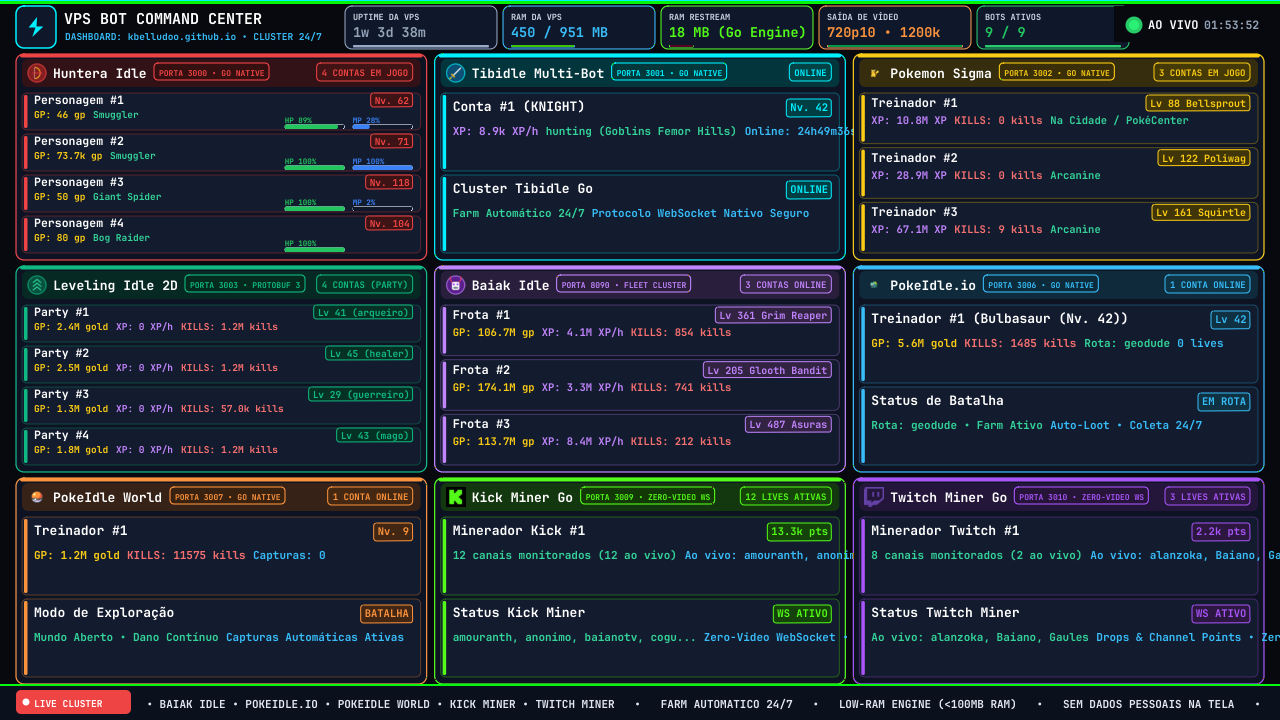
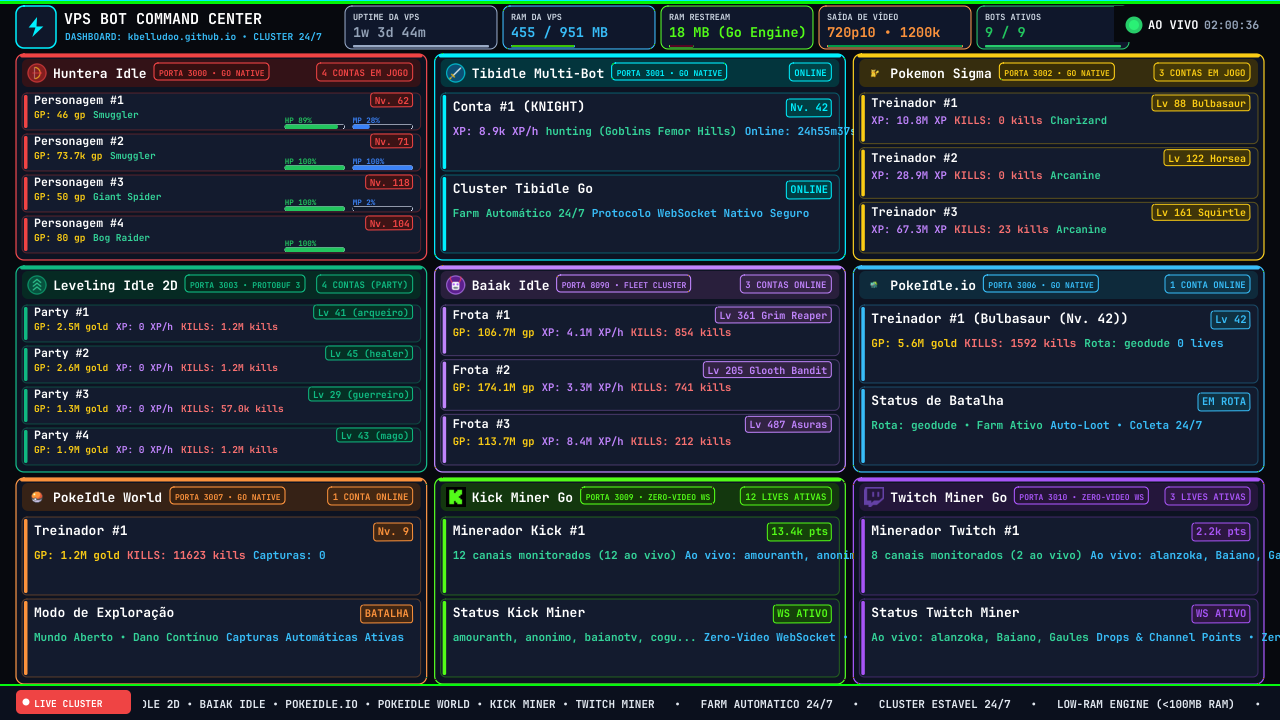
fix(hud): resolve font race condition causing restarts, remove personal data disclaimer, and tune ffmpeg zerolatency

diff --git a/cmd/hud/main.go b/cmd/hud/main.go
@@ -18,6 +18,7 @@ import (
 	"runtime"
 	"strings"
 	"sync"
+	"sync/atomic"
 	"time"
 
 	"github.com/fogleman/gg"
@@ -1334,7 +1335,7 @@ func drawDynamicOverlays(dc *gg.Context, pulse float64) {
 	dc.Fill()
 
 	// Scrolling Marquee
-	msg := "9 BOTS NATIVOS EM GO (ZERO NODE.JS)   •   HUNTERA • TIBIDLE • POKEMON SIGMA • LEVELING IDLE 2D • BAIAK IDLE • POKEIDLE.IO • POKEIDLE WORLD • KICK MINER • TWITCH MINER   •   FARM AUTOMATICO 24/7   •   LOW-RAM ENGINE (<100MB RAM)   •   SEM DADOS PESSOAIS NA TELA"
+	msg := "9 BOTS NATIVOS EM GO (ZERO NODE.JS)   •   HUNTERA • TIBIDLE • POKEMON SIGMA • LEVELING IDLE 2D • BAIAK IDLE • POKEIDLE.IO • POKEIDLE WORLD • KICK MINER • TWITCH MINER   •   FARM AUTOMATICO 24/7   •   CLUSTER ESTAVEL 24/7   •   LOW-RAM ENGINE (<100MB RAM)"
 	msg = msg + "   •   "
 	dc.Push()
 	dc.DrawRectangle(marqueeStartX, tickerY, W-marqueeStartX-10, tickerH)
@@ -1390,13 +1391,14 @@ func streamFrames(w io.Writer, fps int, telemURL, localSample string) error {
 	t := currentTelem
 	dataMu.RUnlock()
 
-	var staticMu sync.RWMutex
 	drawStaticBackground(staticDC, t)
+
+	var telemDirty atomic.Bool
 
 	stopChan := make(chan struct{})
 	defer close(stopChan)
 
-	// Periodic telemetry updater goroutine
+	// Periodic telemetry updater goroutine: fetches network data only, zero drawing
 	go func() {
 		ticker := time.NewTicker(fetchPeriod)
 		defer ticker.Stop()
@@ -1406,14 +1408,7 @@ func streamFrames(w io.Writer, fps int, telemURL, localSample string) error {
 				return
 			case <-ticker.C:
 				fetchTelemetry(telemURL, localSample)
-				dataMu.RLock()
-				cur := currentTelem
-				dataMu.RUnlock()
-
-				staticMu.Lock()
-				staticDC.ResetClip()
-				drawStaticBackground(staticDC, cur)
-				staticMu.Unlock()
+				telemDirty.Store(true)
 			}
 		}
 	}()
@@ -1429,9 +1424,17 @@ func streamFrames(w io.Writer, fps int, telemURL, localSample string) error {
 	for range frameTick.C {
 		pulse := time.Since(start).Seconds()
 
-		staticMu.RLock()
+		// Redraw background sequentially in THIS goroutine if new data arrived
+		if telemDirty.Swap(false) {
+			dataMu.RLock()
+			cur := currentTelem
+			dataMu.RUnlock()
+
+			staticDC.ResetClip()
+			drawStaticBackground(staticDC, cur)
+		}
+
 		copy(dynPix, staticPix)
-		staticMu.RUnlock()
 
 		dc.ResetClip()
 		drawDynamicOverlays(dc, pulse)
@@ -1456,9 +1459,11 @@ func startLiveStreamLoop(fps int, kickURL, twitchURL, ytURL, radioURL string, te
 		kickURL, twitchURL, ytURL)
 
 	bitrate := "1200k"
+	bufsize := "2400k"
 	queueSize := "32"
 	if frameW > 1280 {
 		bitrate = "2000k"
+		bufsize = "4000k"
 		queueSize = "64"
 	}
 
@@ -1483,11 +1488,11 @@ func startLiveStreamLoop(fps int, kickURL, twitchURL, ytURL, radioURL string, te
 			"-i", radioURL,
 			"-c:v", "libx264",
 			"-preset", "ultrafast",
-			"-tune", "stillimage",
+			"-tune", "zerolatency",
 			"-threads", "1",
 			"-b:v", bitrate,
 			"-maxrate", bitrate,
-			"-bufsize", bitrate,
+			"-bufsize", bufsize,
 			"-pix_fmt", "yuv420p",
 			"-g", fmt.Sprintf("%d", fps*2),
 			"-keyint_min", fmt.Sprintf("%d", fps),
